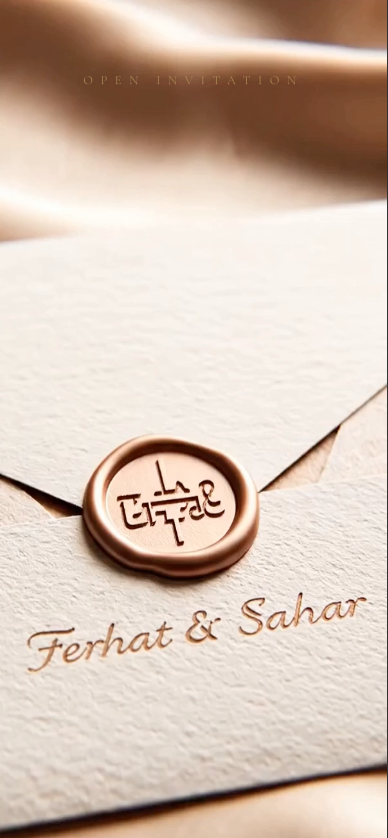
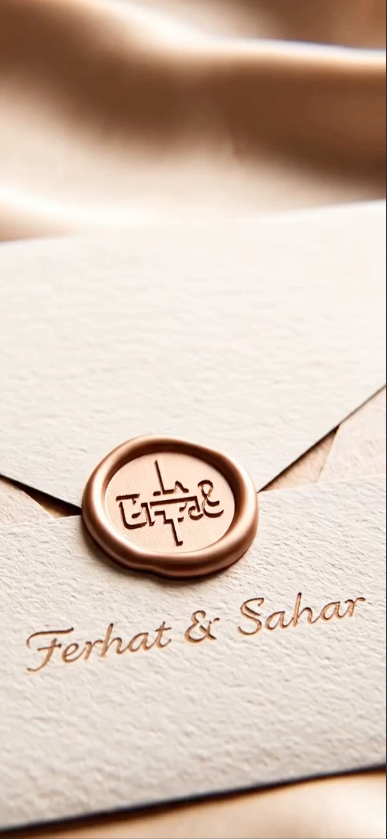
feat: Introduce Attendance section, revamp IntroVideo UI with automatic reveal and new start animation, and refine Gallery animations and metadata.

diff --git a/app/components/IntroVideo.tsx b/app/components/IntroVideo.tsx
@@ -1,6 +1,6 @@
 "use client";
 
-import { useRef, useState } from "react";
+import { useRef, useState, useEffect } from "react";
 import { motion, AnimatePresence } from "framer-motion";
 import { useMusic } from "./MusicProvider";
 import { useLanguage } from "./LanguageProvider";
@@ -14,6 +14,31 @@ export default function IntroVideo({ onComplete }: IntroVideoProps) {
   const videoRef = useRef<HTMLVideoElement>(null);
   const { startPlaying } = useMusic();
   const { t } = useLanguage();
+
+  // Handle automatic reveal on scroll attempt
+  useEffect(() => {
+    const triggerStart = () => {
+      if (!hasStarted) {
+        handleStart();
+      }
+    };
+
+    const handleWheel = (e: WheelEvent) => {
+      if (Math.abs(e.deltaY) > 5) triggerStart();
+    };
+
+    const handleTouchMove = () => {
+      triggerStart();
+    };
+
+    window.addEventListener("wheel", handleWheel);
+    window.addEventListener("touchmove", handleTouchMove, { passive: true });
+    
+    return () => {
+      window.removeEventListener("wheel", handleWheel);
+      window.removeEventListener("touchmove", handleTouchMove);
+    };
+  }, [hasStarted]);
 
   const handleStart = () => {
     if (hasStarted) return;
@@ -49,15 +74,70 @@ export default function IntroVideo({ onComplete }: IntroVideoProps) {
         src="/video.mp4"
         poster="/intro-poster.png"
         preload="auto"
-        
       />
 
       <AnimatePresence>
         {!hasStarted && (
-          <div className="absolute inset-0 flex flex-col items-center justify-start pt-20 gap-6">
-            <div className="animate-bounce text-primary drop-shadow-md text-sm md:text-base tracking-[0.6em] uppercase font-serif font-light">
-              {t.hero.open}
-            </div>
+          <div className="absolute inset-0 flex items-end justify-center overflow-hidden bg-black/50 opacity-60">
+            <motion.div 
+              className="relative flex items-center justify-center cursor-pointer translate-y-1/2"
+              initial={{ opacity: 0 }}
+              animate={{ opacity: 1 }}
+              transition={{ duration: 1.5 }}
+            >
+              {/* Rotating SVG Text */}
+              <motion.div
+                className="absolute w-[280px] h-[280px] md:w-[320px] md:h-[320px]"
+                animate={{ rotate: 360 }}
+                transition={{ duration: 15, repeat: Infinity, ease: "linear" }}
+              >
+                <svg viewBox="0 0 100 100" className="w-full h-full">
+                  <path
+                    id="circlePath"
+                    d="M 50, 50 m -37, 0 a 37,37 0 1,1 74,0 a 37,37 0 1,1 -74,0"
+                    fill="transparent"
+                  />
+                  <text className="fill-white/80 text-[8px] uppercase tracking-[0.2em] font-serif text-shadow-lg">
+                    <textPath xlinkHref="#circlePath">
+                      {t.hero.tapHint}
+                    </textPath>
+                  </text>
+                </svg>
+              </motion.div>
+
+              {/* Pulsing Center Icon/Point */}
+              <div className="relative flex items-center justify-start flex-col group pb-20 md:pb-48">
+                 {/* Decorative Rings */}
+                <motion.div
+                  className="absolute w-16 h-16 md:w-20 md:h-20 rounded-full border border-primary/20"
+                  animate={{ scale: [1, 1.4], opacity: [0.3, 0] }}
+                  transition={{ duration: 2, repeat: Infinity, ease: "easeOut" }}
+                />
+                
+                <motion.div
+                  className="relative z-10 w-12 h-12 md:w-16 md:h-16 rounded-full bg-primary/10 backdrop-blur-md border border-primary/40 flex items-center justify-center shadow-[0_0_30px_rgba(176,141,85,0.2)]"
+                  whileHover={{ scale: 1.1 }}
+                  whileTap={{ scale: 0.95 }}
+                >
+                  <motion.div
+                    animate={{ y: [0, -8, 0] }}
+                    transition={{ duration: 1.5, repeat: Infinity, ease: "easeInOut" }}
+                  >
+                    <svg 
+                      width="24" 
+                      height="24" 
+                      viewBox="0 0 24 24" 
+                      fill="none" 
+                      stroke="currentColor" 
+                      strokeWidth="1.5"
+                      className="text-primary"
+                    >
+                      <path d="M12 19V5M12 5L5 12M12 5L19 12" strokeLinecap="round" strokeLinejoin="round"/>
+                    </svg>
+                  </motion.div>
+                </motion.div>
+              </div>
+            </motion.div>
           </div>
         )}
       </AnimatePresence>

diff --git a/app/data/locales.ts b/app/data/locales.ts
@@ -7,6 +7,7 @@ export const translations = {
       time: "17:00",
       location: "Wedding Venue",
       open: "Open Invitation",
+      tapHint: "TAP ANYWHERE TO REVEAL • OPEN OUR INVITATION • ",
     },
     countdown: {
       days: "Days",
@@ -79,6 +80,10 @@ export const translations = {
     gallery: {
       title: "Our Moments",
     },
+    attendance: {
+      title: "Confirm Your Attendance",
+      text: "We would really appreciate it if you could let us know before <strong>May 1st</strong> whether you’ll be able to attend, so we can finalize the planning. It means a lot to us.",
+    },
   },
   nl: {
     hero: {
@@ -88,6 +93,7 @@ export const translations = {
       time: "17:00",
       location: "Trouwlocatie",
       open: "Open Uitnodiging",
+      tapHint: "TIK OVERAL OM TE OPENEN • OPEN ONZE UITNODIGING • ",
     },
     countdown: {
       days: "Dagen",
@@ -161,6 +167,10 @@ export const translations = {
     gallery: {
       title: "Onze Momenten",
     },
+    attendance: {
+      title: "Aanwezigheid doorgeven",
+      text: "We horen graag vóór <strong>1 mei</strong> of je aanwezig kunt zijn, zodat we de planning definitief kunnen maken. Het betekent veel voor ons.",
+    },
   },
   tr: {
     hero: {
@@ -170,6 +180,7 @@ export const translations = {
       time: "17:00",
       location: "Düğün Mekanı",
       open: "Davetiyeyi Aç",
+      tapHint: "AÇMAK İÇİN HERHANGİ BİR YERE DOKUNUN • DAVETİYEMİZİ AÇIN • ",
     },
     countdown: {
       days: "Gün",
@@ -243,6 +254,10 @@ export const translations = {
     gallery: {
       title: "Anılarımız",
     },
+    attendance: {
+      title: "Katılım Durumunu Bildirme",
+      text: "Planlamayı netleştirebilmemiz için, <strong>1 Mayıs’tan</strong> önce katılıp katılamayacağınızı bize bildirirseniz çok seviniriz. Bizim için gerçekten çok değerli.",
+    },
   },
   fa: {
     hero: {
@@ -252,6 +267,7 @@ export const translations = {
       time: "۱۷:۰۰",
       location: "محل برگزاری",
       open: "باز کردن دعوتنامه",
+      tapHint: "برای مشاهده هرجا را لمس کنید • دعوتنامه ما را باز کنید • ",
     },
     countdown: {
       days: "روز",
@@ -323,6 +339,10 @@ export const translations = {
     },
     gallery: {
       title: "لحظات ما",
+    },
+    attendance: {
+      title: "تأیید حضور",
+      text: "خیلی خوشحال میشویم اگر تا قبل از <strong>اول ماه می</strong> به ما اطلاع دهید که آیا میتوانید حضور داشته باشید یا نه، تا بتوانیم برنامهریزی را نهایی کنیم. برای ما بسیار ارزشمند است.",
     },
   },
 };

diff --git a/app/components/Attendance.tsx b/app/components/Attendance.tsx
@@ -1,0 +1,52 @@
+"use client";
+
+import { useLanguage } from "./LanguageProvider";
+import { motion } from "framer-motion";
+import SectionHeading from "./SectionHeading";
+
+export default function Attendance() {
+  const { t } = useLanguage();
+
+  return (
+    <section className="py-24 px-4 flex flex-col items-center relative overflow-hidden">
+      {/* Decorative Background Texture */}
+      <div className="absolute inset-0 bg-[url('/texture.jpg')] opacity-10 mix-blend-multiply" />
+      
+      <div className="max-w-4xl w-full z-10 text-center">
+        <SectionHeading title={t.attendance.title} />
+        
+        <motion.div
+           className="mt-12 p-8 md:p-12 relative group"
+           initial={{ opacity: 0, y: 30 }}
+           whileInView={{ opacity: 1, y: 0 }}
+           viewport={{ once: true }}
+           transition={{ duration: 0.8 }}
+        >
+          {/* Subtle Decorative Corners */}
+          <div className="absolute top-4 left-4 w-8 h-8 border-t border-l border-primary/20 rounded-tl-lg" />
+          <div className="absolute bottom-4 right-4 w-8 h-8 border-b border-r border-primary/20 rounded-br-lg" />
+          
+          <p 
+            className="font-serif text-2xl md:text-3xl text-foreground leading-relaxed italic mb-8 [&>strong]:text-primary [&>strong]:font-semibold [&>strong]:not-italic"
+            dangerouslySetInnerHTML={{ __html: `"${t.attendance.text}"` }}
+          />
+          
+          <div className="flex items-center justify-center gap-4 mt-8">
+            <div className="w-8 h-px bg-primary/30" />
+            <div className="w-2 h-2 rounded-full bg-primary animate-pulse" />
+            <div className="w-8 h-px bg-primary/30" />
+          </div>
+        </motion.div>
+        
+        {/* Decorative Floating Element */}
+        <motion.div 
+          className="mt-16 text-primary/40 text-4xl font-script opacity-50"
+          animate={{ y: [0, -10, 0] }}
+          transition={{ duration: 4, repeat: Infinity, ease: "easeInOut" }}
+        >
+          With Love
+        </motion.div>
+      </div>
+    </section>
+  );
+}

diff --git a/app/components/Gallery.tsx b/app/components/Gallery.tsx
@@ -26,18 +26,18 @@ export default function Gallery() {
 
       <SectionHeading title={t.gallery.title} />
 
-      <div className="max-w-7xl w-full columns-2 md:columns-3 gap-3 space-y-3 mt-12">
+      <div className="max-w-7xl w-full columns-2 md:columns-3 gap-3 mt-12">
         {images.map((image, index) => (
           <motion.div
             key={index}
-            className={`break-inside-avoid relative overflow-hidden shadow-sm group cursor-pointer rounded-xs ${image.aspect}`}
-            initial={{ opacity: 0, y: 30 }}
-            whileInView={{ opacity: 1, y: 0 }}
-            viewport={{ once: true }}
+            className={`break-inside-avoid relative mb-3 overflow-hidden shadow-sm group cursor-pointer rounded-xs ${image.aspect} block w-full bg-primary/5`}
+            initial={{ opacity: 0, scale: 0.95 }}
+            whileInView={{ opacity: 1, scale: 1 }}
+            viewport={{ once: true, margin: "-50px" }}
             transition={{
-              duration: 0.8,
-              delay: index * 0.1,
-              ease: [0.21, 0.47, 0.32, 0.98],
+              duration: 0.6,
+              delay: index * 0.05,
+              ease: "easeOut",
             }}
           >
             {/* Image Frame with Golden Glow */}
@@ -49,6 +49,7 @@ export default function Gallery() {
               fill
               className="object-cover transition-transform duration-1000 ease-out group-hover:scale-105"
               sizes="(max-width: 768px) 50vw, (max-width: 1200px) 33vw, 33vw"
+              priority={index < 3}
             />
 
             {/* Glamorous Overlays */}

diff --git a/app/page.tsx b/app/page.tsx
@@ -11,6 +11,7 @@ import Gallery from "./components/Gallery";
 import Program from "./components/Program";
 import Location from "./components/Location";
 import QA from "./components/QA";
+import Attendance from "./components/Attendance";
 import MusicPlayer from "./components/MusicPlayer";
 import LanguageSwitcher from "./components/LanguageSwitcher";
 import IntroVideo from "./components/IntroVideo";
@@ -47,6 +48,7 @@ export default function Home() {
                 <Gallery />
                 <Location />
                 <QA />
+                <Attendance />
               </motion.div>
             )}
           </AnimatePresence>

diff --git a/app/layout.tsx b/app/layout.tsx
@@ -25,7 +25,10 @@ const inter = Inter({
 
 export const metadata: Metadata = {
   title: "Sahar & Ferhat - Wedding Invitation",
-  description: "Join us in celebrating our wedding on June 6, 2026",
+  description: "Join us in celebrating the wedding of Sahar & Ferhat on June 6, 2026. View our journey, program, and confirm your attendance.",
+  icons: {
+    icon: "/favicon.ico",
+  },
 };
 
 export default function RootLayout({
